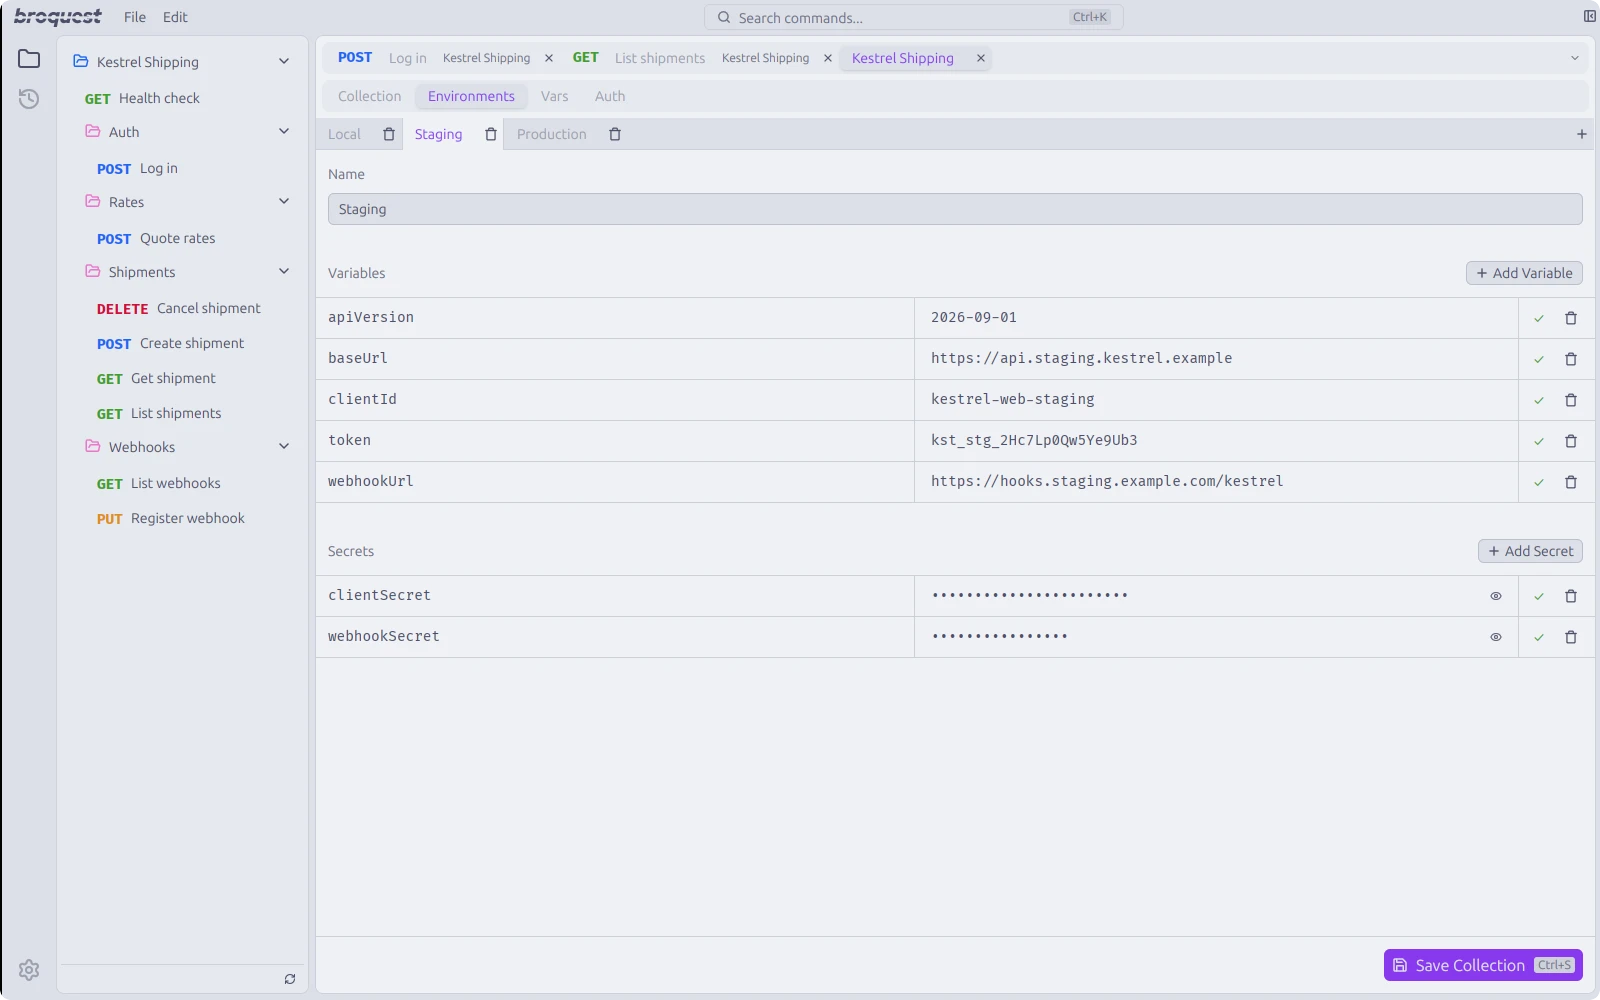
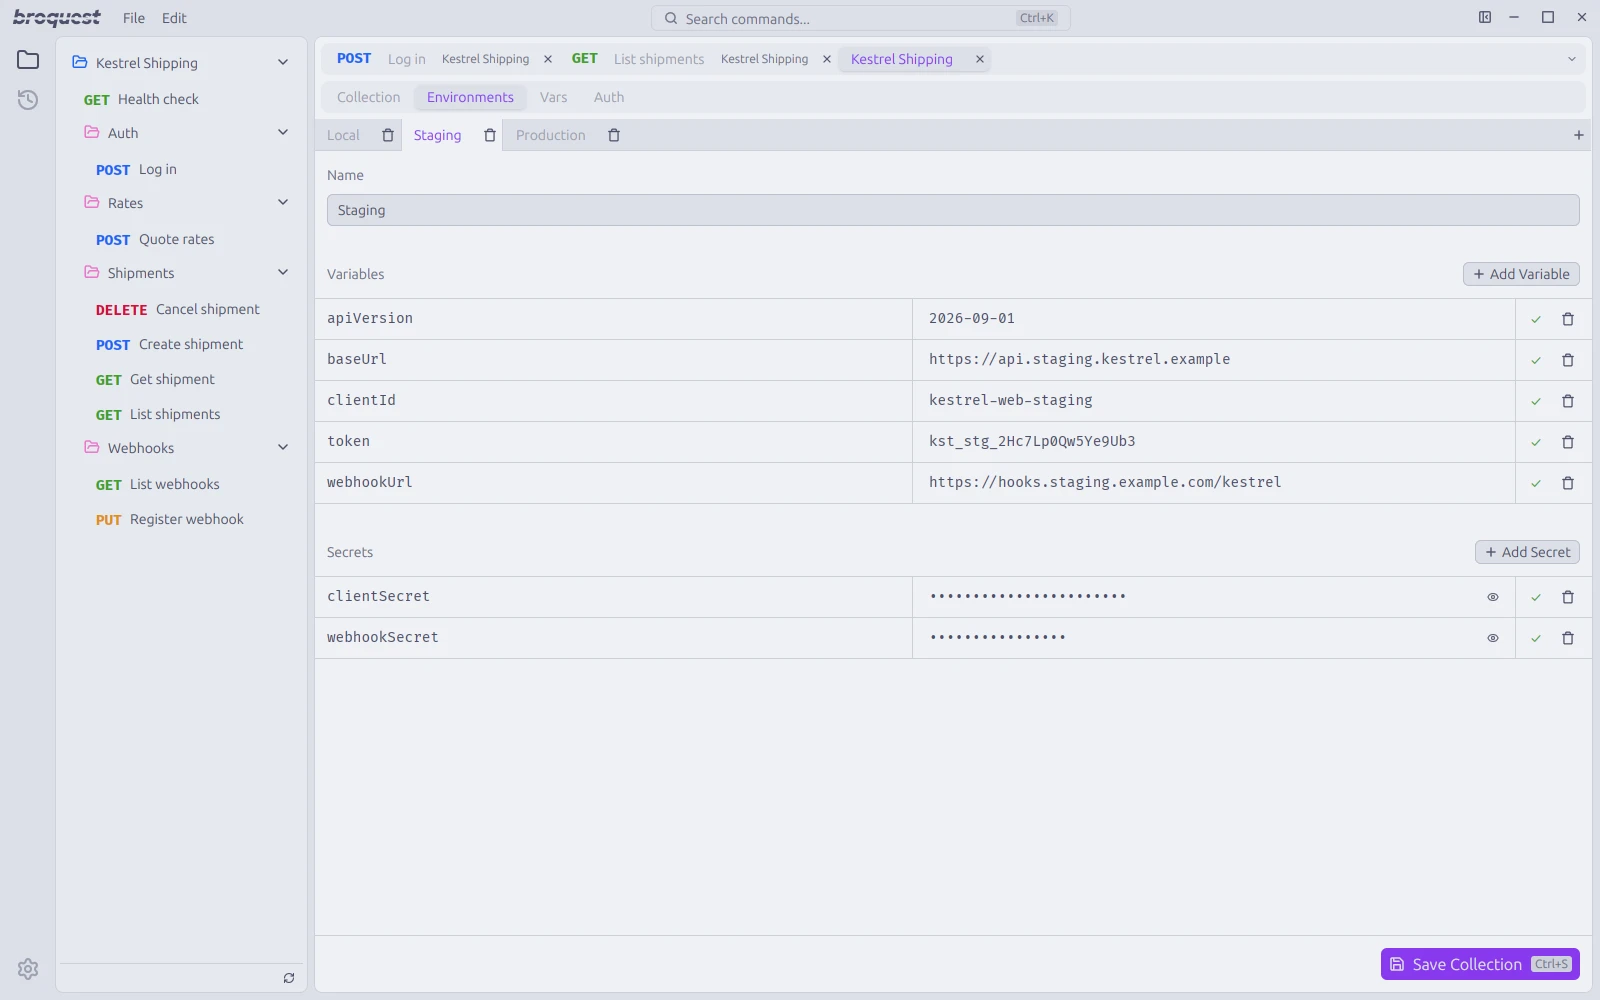
fix: draw the window controls in the screenshots
Xvfb runs no window manager, so gpui fell back to server-side decorations and the title bar left out the window controls. The capture script now advertises a window manager that supports _GTK_FRAME_EXTENTS, so gpui draws the client-side frame, and crops the frame's shadow inset. The scene window grows by that inset to keep the frame at 1600x1000. PNG_DIR also writes lossless PNGs.

focus-window also moves the window to the top left corner, since it lands two pixels right of where the app places it and the capture lost those columns.

diff --git a/crates/broquest/src/screenshots.rs b/crates/broquest/src/screenshots.rs
@@ -88,7 +88,9 @@ impl Scene {
 
 /// The window size for the screenshots, when a scene is being staged.
 pub(crate) fn window_size() -> Option<Size<Pixels>> {
-    Scene::from_env().map(|_| size(px(1600.), px(1000.)))
+    // The visible frame is 1600x1000. On Linux the client-side frame adds a 20px
+    // shadow inset on every side, which the capture script crops away.
+    Scene::from_env().map(|_| size(px(1640.), px(1040.)))
 }
 
 /// Register the demo collection and the settings in a fresh app database.
